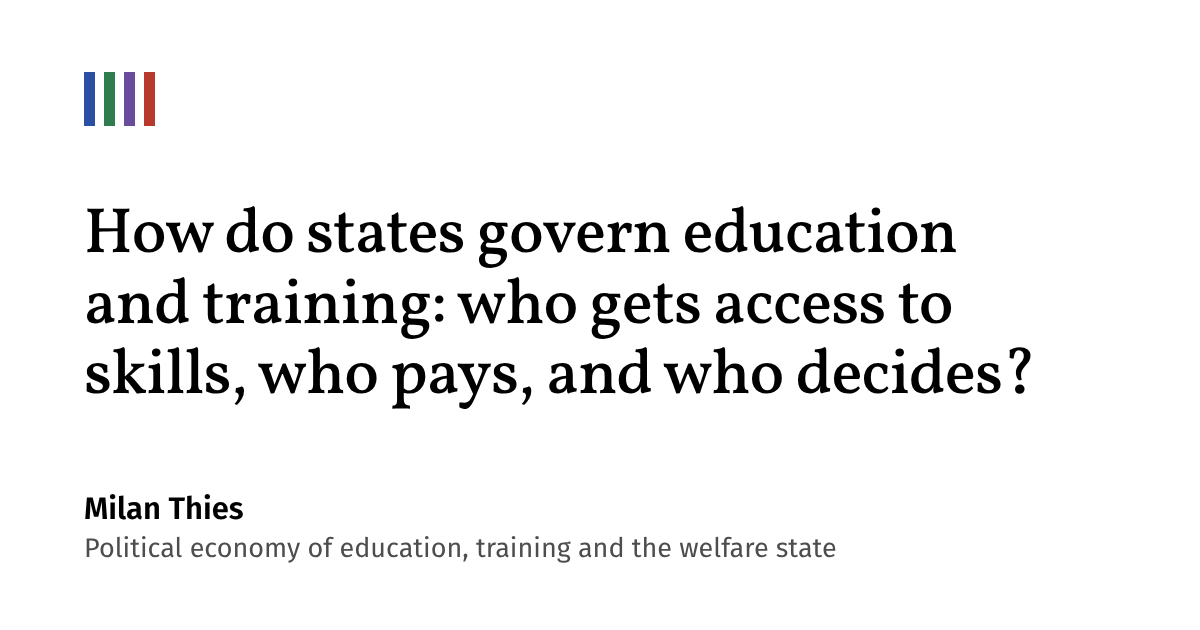
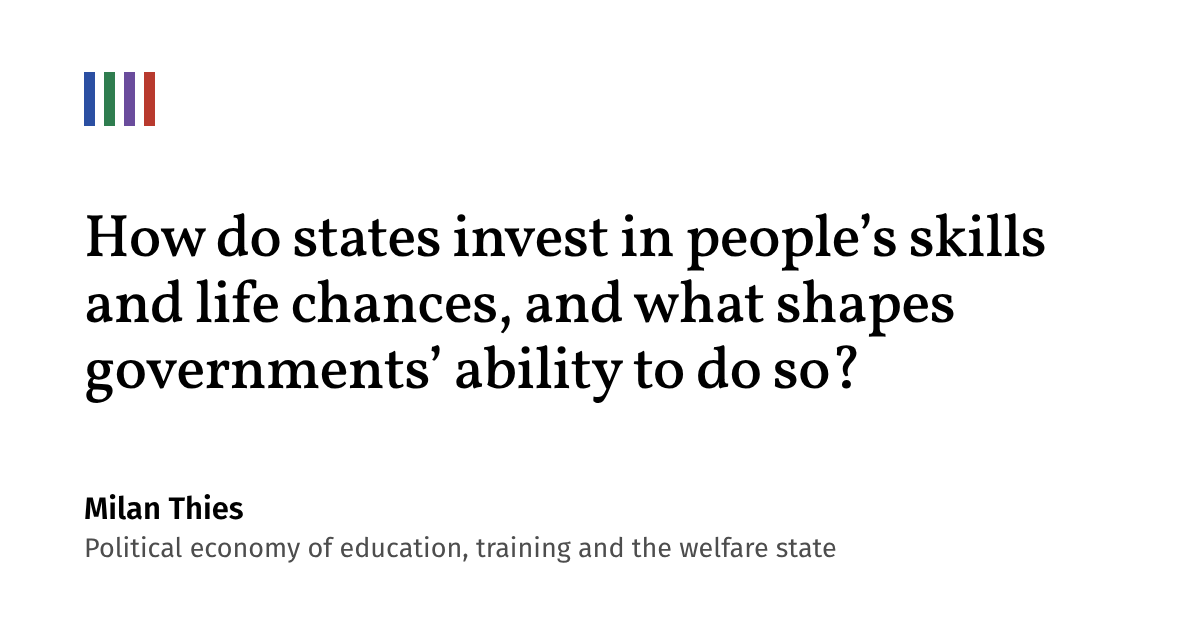
Home page: new research statement, bio and theme texts; drop policy section
- Statement: "I study how states invest in people's skills and life
  chances, and what shapes governments' ability to do so."
- Bio: full name of LIVES, broader research paragraph, education and
  visiting positions
- Research themes renamed, with new teasers
- Policy section removed from the home page (still in the menu)
- Link preview image shows the new statement

Claude-Session: https://claude.ai/code/session_01XpM7vzJwWJXb1rydAnir8x

Changed region(s): [[0.0617, 0.3317, 0.8942, 0.6635]]

diff --git a/_dev/social-card.html b/_dev/social-card.html
@@ -22,11 +22,11 @@ body {
 }
 .marks { display: flex; gap: 9px; }
 .marks i { display: block; width: 11px; height: 54px; }
-.statement { font-family: Vollkorn, serif; font-weight: 500; font-size: 64px; line-height: 1.1; letter-spacing: -.014em; margin: 0; max-width: 980px; }
+.statement { font-family: Vollkorn, serif; font-weight: 500; font-size: 60px; line-height: 1.1; letter-spacing: -.014em; margin: 0; max-width: 1040px; }
 .who { font-size: 27px; line-height: 1.35; color: #4d4d4d; }
 .who b { display: block; color: #000; font-weight: 600; font-size: 31px; }
 </style>
 <div class="marks"><i style="background:#2b4fa2"></i><i style="background:#2f7d4f"></i><i style="background:#6a4c9c"></i><i style="background:#b83a2e"></i></div>
-<p class="statement">How do states govern education and training: who gets access to skills, who pays, and who decides?</p>
+<p class="statement">How do states invest in people’s skills and life chances, and what shapes governments’ ability to do so?</p>
 <div class="who"><b>Milan Thies</b>Political economy of education, training and the welfare state</div>
 </html>

diff --git a/_layouts/home.html b/_layouts/home.html
@@ -67,12 +67,4 @@ layout: default
     </div>
   </section>
 
-  <section class="band" aria-labelledby="home-policy">
-    <h2 class="band-label" id="home-policy">Policy</h2>
-    <div class="band-body">
-      {% include rows.html items=site.data.policy.roles %}
-      <p class="more"><a href="{{ '/policy/' | relative_url }}">Policy experience and publications</a></p>
-    </div>
-  </section>
-
 </div>

diff --git a/index.md b/index.md
@@ -3,11 +3,11 @@ layout: home
 title: "Milan Thies"
 permalink: /
 # The large sentence at the top of the home page.
-statement: "I study how states govern education and training: who gets access to skills, who pays, and who decides."
+statement: "I study how states invest in people’s skills and life chances, and what shapes governments’ ability to do so."
 ---
 
-I am a postdoctoral researcher in the Social Policy Unit at [IDHEAP](https://www.unil.ch/idheap/), the Swiss Graduate School of Public Administration at the University of Lausanne. I work in the [GOVPET Leading House](https://ibb.unisg.ch/en/research-labs/govpet-leading-house/research-program/) on governance in vocational and professional education and training, and at the [LIVES Centre](https://lives.unil.ch/en/page-de-base/about-lives-centre) for life course research.
+I am a postdoctoral researcher in the Social Policy Unit at [IDHEAP](https://www.unil.ch/idheap/), the Swiss Graduate School of Public Administration at the University of Lausanne. I work in the [GOVPET Leading House](https://ibb.unisg.ch/en/research-labs/govpet-leading-house/research-program/) on governance in vocational and professional education and training, and at the [Swiss Centre of Expertise in Life Course Research (LIVES)](https://lives.unil.ch/en/page-de-base/about-lives-centre).
 
-My research is in comparative political economy and social policy. It deals with education, skills and labour market policy and, more broadly, with the transformation of welfare states under structural change, mainly in Germany, France and at EU level. I combine computational text analysis with elite interviews and process tracing.
+My research is in comparative political economy and social policy. It deals with education, skills and labour market policy and, more broadly, with the transformation of states in the context of structural change. I combine quantitative and qualitative methods.
 
-I hold a PhD in Political and Social Sciences from the European University Institute, where I [defended my thesis](https://www.eui.eu/events?id=584867) in March 2026. Before my doctorate I worked at the German Federal Ministry of Labour and Social Affairs, which has since appointed me to an advisory council on continuing education.
+I hold a PhD in Political and Social Sciences from the European University Institute, where I [defended my thesis](https://www.eui.eu/events?id=584867) in March 2026. Before my doctorate I completed a Master of Public Policy at the Hertie School and worked in policy and politics. I have been a visiting researcher at Humboldt University of Berlin and Sciences Po Paris.

diff --git a/README.md b/README.md
@@ -125,7 +125,7 @@ Upload a photo named `portrait.jpg` into `assets/img/`. It appears on the home p
 
 ### Change the home page
 
-`index.md` holds the large sentence (`statement`, at the top) and the three paragraphs of the bio. The lists below them come from the data files: research themes from `_data/research.yml`, selected publications from `_data/publications.yml`, courses from `_data/teaching.yml`, roles from `_data/policy.yml`.
+`index.md` holds the large sentence (`statement`, at the top) and the three paragraphs of the bio. The lists below them come from the data files: research themes from `_data/research.yml`, selected publications from `_data/publications.yml`, courses from `_data/teaching.yml`.
 
 ### Change a research theme, or add one
 
